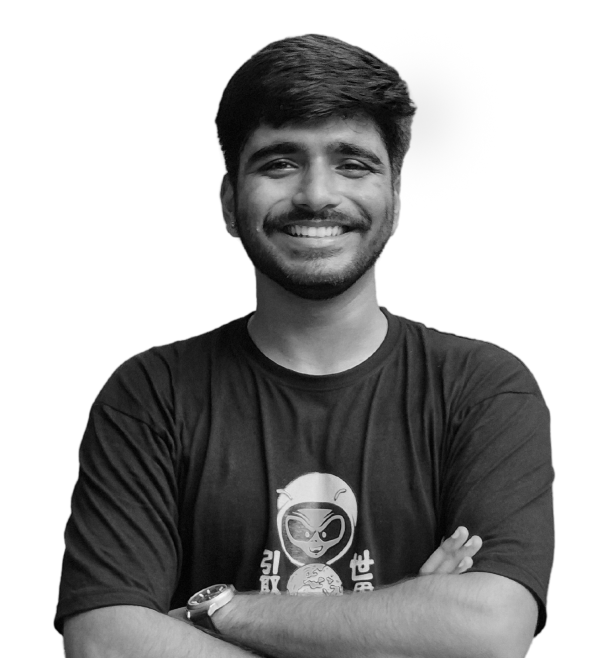
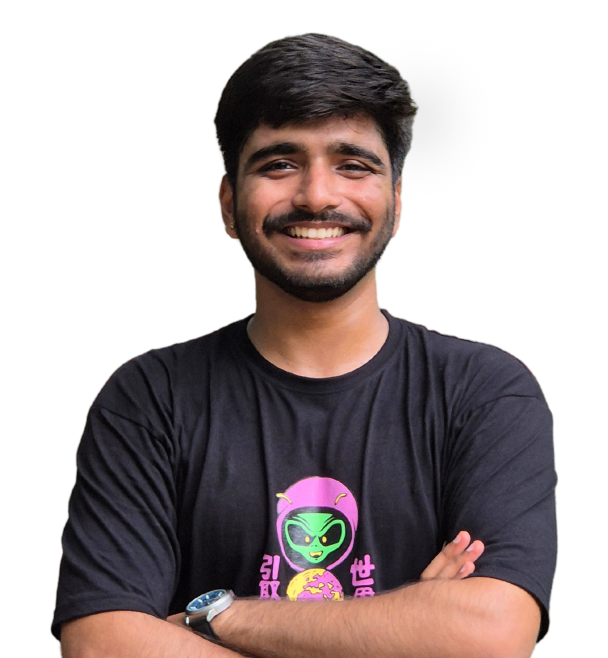
Added UI functionalities and responsiveness

diff --git a/src/app/page.js b/src/app/page.js
@@ -1,27 +1,41 @@
-import React from 'react'
+'use client'
+import React, { useRef } from 'react'
 import Navbar from './components/Navbar'
 import ProfileCard from './components/ProfileCard'
 import Projects from './components/Projects'
 import Skills from './components/Skills'
 import Creative from './components/Creative'
+import ScrollToTopButton from './components/ScrollToTopButton'
 
 
 const page = () => {
+
+  const profileRef = useRef(null);
+  const projectsRef = useRef(null);
+  const skillsRef = useRef(null);
+  const creativeRef = useRef(null);
+
+
   return (
     <div className='flex items-center justify-center'>
-      <div className='w-[1060px]'>
+      <div className='px-10 md:px-0 md:w-[1060px]'>
 
-        <Navbar />
-        <div className='flex px-3 gap-9'>
+        <Navbar
+          profileRef={profileRef}
+          projectsRef={projectsRef}
+          skillsRef={skillsRef}
+          creativeRef={creativeRef}
+        />
+        <div className='md:flex px-3 gap-9'>
           <ProfileCard />
-          <div className='w-2/3 ml-[380px]'>
-            <h1 className='font-bold text-[70px] leading-tight'>
+          <div className='md:w-2/3 md:ml-[380px] pt-5'>
+            <h1 className='font-bold text-[40px] md:text-[70px] leading-tight'>
               Developer by <span className='text-[#AD8AFF]'>Logic</span>,
               <br />
               Designer by <span className='text-[#FAB7B0]'>Heart</span>.
             </h1>
 
-            <p className='text-[#C3C3C3] text-[20px] pt-5 font-roboto'>
+            <p className='text-[#C3C3C3] text-[20px] py-5 font-roboto'>
               Blending clean code and thoughtful design to create seamless, user-focused digital experiences. I bring ideas to life with precision and creativity.
             </p>
 
@@ -43,13 +57,20 @@ const page = () => {
               </div>
 
             </div>
-            <Projects />
-            <Skills />
-            <Creative />
+            <div ref={projectsRef}>
+              <Projects />
+            </div>
+            <div ref={skillsRef}>
+              <Skills />
+            </div>
+            <div ref={creativeRef}>
+              <Creative />
+            </div>
 
           </div>
         </div>
       </div>
+      <ScrollToTopButton/>
     </div>
   )
 }

diff --git a/src/app/components/Navbar.jsx b/src/app/components/Navbar.jsx
@@ -1,24 +1,24 @@
 import React from 'react'
 
-const Navbar = () => {
-    return (
-        <div className='p-4 gap-4 flex justify-center '>
-            <div className='bg-[#444444] rounded-2xl flex justify-center items-center p-3 px-4'>
-                <div className='flex gap-9'>
+const Navbar = ({projectsRef, skillsRef, creativeRef }) => {
+    const handleScroll = (ref) => {
+        ref.current?.scrollIntoView({ behavior: 'smooth' });
+    };
 
-                    <img src="/iconssvg/Home.svg" alt="Logo" />
-                    <img src="/iconssvg/Code.svg" alt="Logo" />
-                    <img src="/iconssvg/Wrench.svg" alt="Logo" />
-                    <img src="/iconssvg/Palette.svg" alt="Logo" />
+    return (
+        <div className='md:p-4 my-4 gap-4 flex justify-center '>
+            <div className='bg-[#444444] rounded-2xl flex justify-center items-center p-3 px-4'>
+                <div className='flex gap-4 md:gap-9'>
+                    <img src="/iconssvg/Home.svg" alt="Home" onClick={() => handleScroll(profileRef)} className='cursor-pointer'/>
+                    <img src="/iconssvg/Code.svg" alt="Projects" onClick={() => handleScroll(projectsRef)} className='cursor-pointer' />
+                    <img src="/iconssvg/Wrench.svg" alt="Skills" onClick={() => handleScroll(skillsRef)} className='cursor-pointer' />
+                    <img src="/iconssvg/Palette.svg" alt="Creative" onClick={() => handleScroll(creativeRef)} className='cursor-pointer' />
                 </div>
             </div>
-            <div className='flex bg-[#336FAC] gap-4 items-center p-3 px-4  rounded-2xl'>
-                <img src="/iconssvg/Luggage.svg" alt="Logo"
-                    style={{ height: '28px' }}
-                />
+            <div className='flex bg-[#336FAC] gap-4 items-center p-3 px-4 rounded-2xl'>
+                <img src="/iconssvg/Luggage.svg" alt="Contact" style={{ height: '28px' }} />
                 <p>Get in Touch !</p>
             </div>
-
         </div>
     )
 }

diff --git a/src/app/components/ProfileCard.jsx b/src/app/components/ProfileCard.jsx
@@ -3,15 +3,15 @@ import React from 'react'
 
 const ProfileCard = () => {
     return (
-        <div className='bg-[#89CFF0] w-[353.33px] h-[560px] text-[#1B1B1B] fixed'>
-            <div className='flex justify-center h-3/5 overflow-hidden items-center relative '>
+        <div className='bg-[#89CFF0] md:w-[353.33px] pb-3 md:h-[560px] text-[#1B1B1B] md:fixed'>
+            <div className='flex justify-center h-3/5  overflow-hidden items-center relative '>
                 <Image
                     src='/imagepng/pfp.png'
                     alt='Profile Image'
                     quality={100}
-                    width={300}
-                    height={300}
-                    className='z-10'
+                    width={200}
+                    height={200}
+                    className='z-10 transition-transform duration-500 transform grayscale hover:grayscale-0'
                 />
                 <Image
                     src='/iconssvg/Star.svg'
@@ -42,7 +42,7 @@ const ProfileCard = () => {
                     <a href="https://www.instagram.com/iam_taniiishq/" target="_blank" rel="noopener noreferrer">
                         <img src="/iconssvg/insta.svg" alt="instagram" />
                     </a>
-                    <a href="/path/to/download/file" target="_blank" rel="noopener noreferrer">
+                    <a href="https://drive.google.com/file/d/1oPzswstCM0eZIyVI4b4tIWkyynK0h_UU/view?usp=sharing" target="_blank" rel="noopener noreferrer">
                         <img src="/iconssvg/download.svg" alt="download" />
                     </a>
                 </div>

diff --git a/src/app/components/ScrollToTopButton.jsx b/src/app/components/ScrollToTopButton.jsx
@@ -1,0 +1,41 @@
+import React, { useState, useEffect } from 'react';
+import { FaChevronUp } from "react-icons/fa6";
+
+const ScrollToTopButton = () => {
+    const [isVisible, setIsVisible] = useState(false);
+
+    const toggleVisibility = () => {
+        if (window.scrollY > window.innerHeight / 2) {
+            setIsVisible(true);
+        } else {
+            setIsVisible(false);
+        }
+    };
+
+    const scrollToTop = () => {
+        window.scrollTo({
+            top: 0,
+            behavior: 'smooth',
+        });
+    };
+
+    useEffect(() => {
+        window.addEventListener('scroll', toggleVisibility);
+        return () => {
+            window.removeEventListener('scroll', toggleVisibility);
+        };
+    }, []);
+
+    return (
+        <div className={`fixed bottom-4 right-7 ${isVisible ? 'block' : 'hidden'}`}>
+            <button
+                onClick={scrollToTop}
+                className='p-5 bg-[#89CFF0] text-white rounded-full shadow-lg hover:bg-[#B89AFF] transition duration-300'
+            >
+                <FaChevronUp color='black'/>
+            </button>
+        </div>
+    );
+};
+
+export default ScrollToTopButton;

diff --git a/src/app/components/Card.jsx b/src/app/components/Card.jsx
@@ -1,18 +1,21 @@
 import Image from 'next/image'
 import React from 'react'
 
-const Card = ({src, title, desc, link}) => {
+const Card = ({ src, title, desc, link }) => {
   return (
-      <div>
-          <Image
-              src={src}
-              alt='Project 1'
-              quality={100}
-              width={900}
-              height={500}
-          />
-          <h5 className='text-2xl pt-2'>{ title}</h5>
-          <p className='text-lg font-roboto lightgray'>{ desc}</p>
+    <div className='overflow-hidden cursor-pointer'>
+      <div className='overflow-hidden'>
+        <Image
+          src={src}
+          alt='Project 1'
+          quality={100}
+          width={900}
+          height={500}
+          className='transition-transform duration-500 transform hover:scale-110'
+        />
+      </div>
+      <h5 className='text-2xl pt-2'>{title}</h5>
+      <p className='text-lg font-roboto lightgray'>{desc}</p>
     </div>
   )
 }

diff --git a/src/app/components/Creative.jsx b/src/app/components/Creative.jsx
@@ -7,7 +7,7 @@ const Creative = () => {
           <h2 className='heading pt-16 leading-none' >My Creative Playground</h2>
           <p className='lightgray font-roboto text-lg mb-5'>When I’m not coding or designing interfaces, I love diving into side projects like magazine designs, logos, and branding.</p>
 
-          <div className='grid grid-cols-2 gap-9'>
+          <div className='grid grid-cols-2 gap-5 md:gap-9'>
               <Card src={'/imagepng/creative/1.png'} title={'College Alumni Magazine Design'}/>
               <Card src={'/imagepng/creative/2.png'} title={'Vivanta Brand Identity Design  - Personal Project'}/>
               <Card src={'/imagepng/creative/3.png'} title={'Main10 Brand Identity Design - Client Project'}/>

diff --git a/src/app/components/Projects.jsx b/src/app/components/Projects.jsx
@@ -8,7 +8,7 @@ const Projects = () => {
             <h2 className='heading pt-16 leading-none' >PROJECTS</h2>
             <p className='lightgray font-roboto text-lg mb-5'>These are the projects I’ve poured my time and passion into, combining code and design to create something meaningful.</p>
 
-            <div className='grid grid-cols-2 gap-9'>
+            <div className='grid grid-cols-2 gap-5 md:gap-9'>
 
                 <Card src={'/imagepng/projects/1.png'} title={'Nebula Accelerator'} desc={'Saas Website UI Design'} />
                 <Card src={'/imagepng/projects/2.png'} title={'Write It Blogs'} desc={'Personal Blog Web Project'} />

diff --git a/src/app/components/Skills.jsx b/src/app/components/Skills.jsx
@@ -5,7 +5,7 @@ const Skills = () => {
       <div>
           <h2 className='heading pt-16 leading-none'>SKILLS & TOOLS</h2>
           <p className='lightgray font-roboto text-lg'>Here’s what I work with every day.</p>
-          <div className='grid grid-cols-6 gap-9 pt-5'>
+          <div className='grid grid-cols-6 gap-2 md:gap-9 pt-5'>
               <img src='/imagepng/skills/1.png' alt='HTML' />
               <img src='/imagepng/skills/2.png' alt='HTML' />
               <img src='/imagepng/skills/3.png' alt='HTML' />
